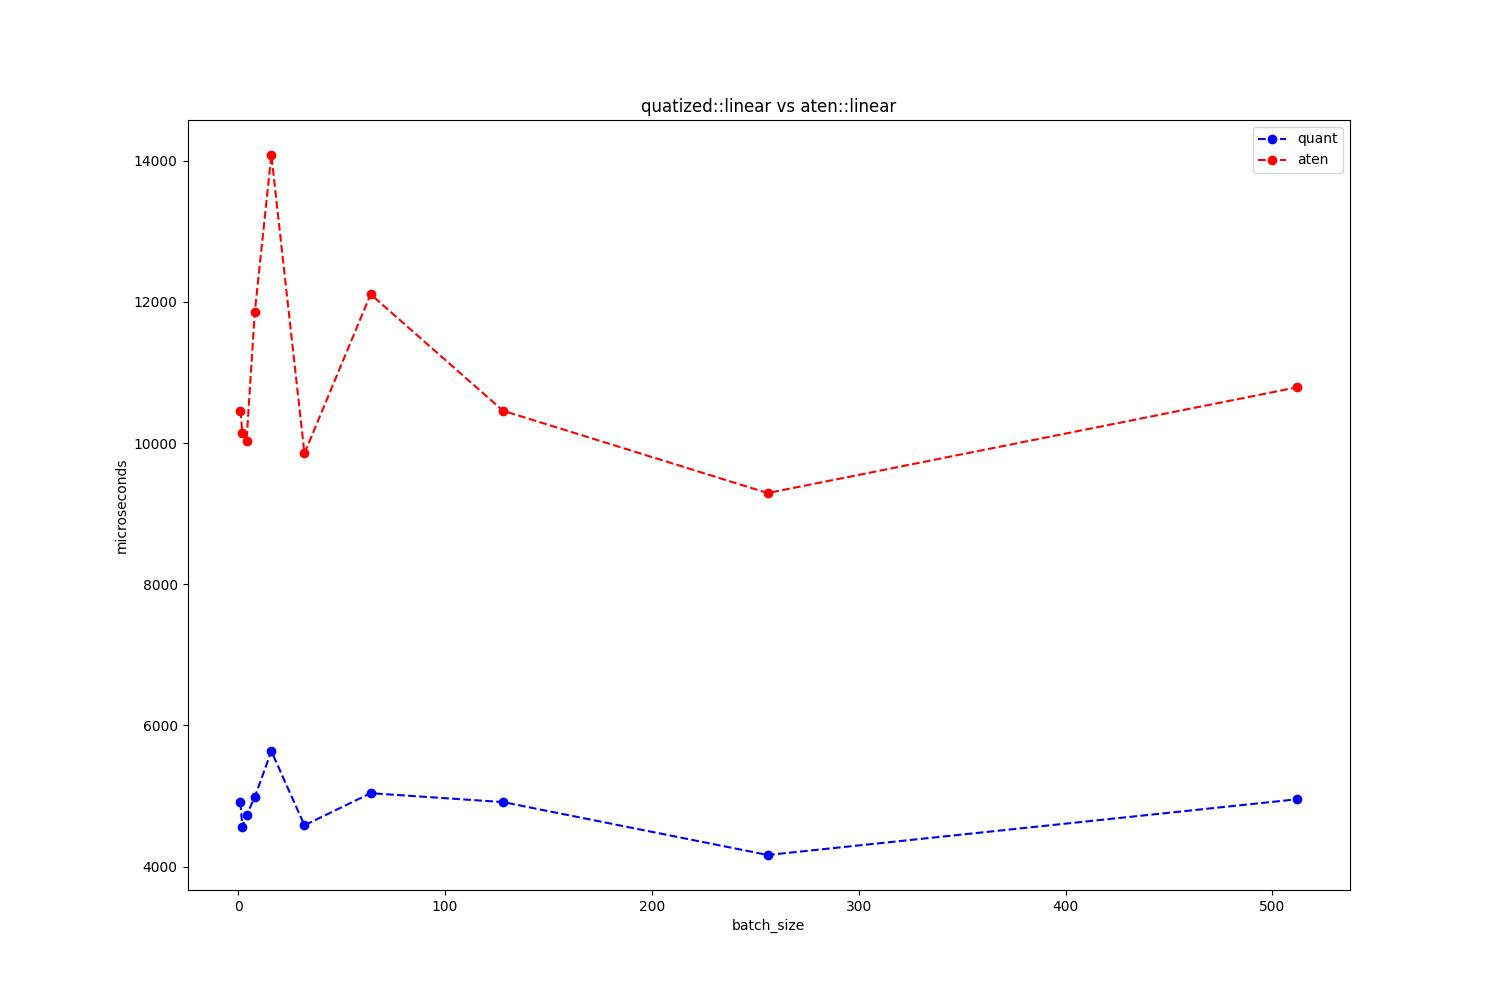
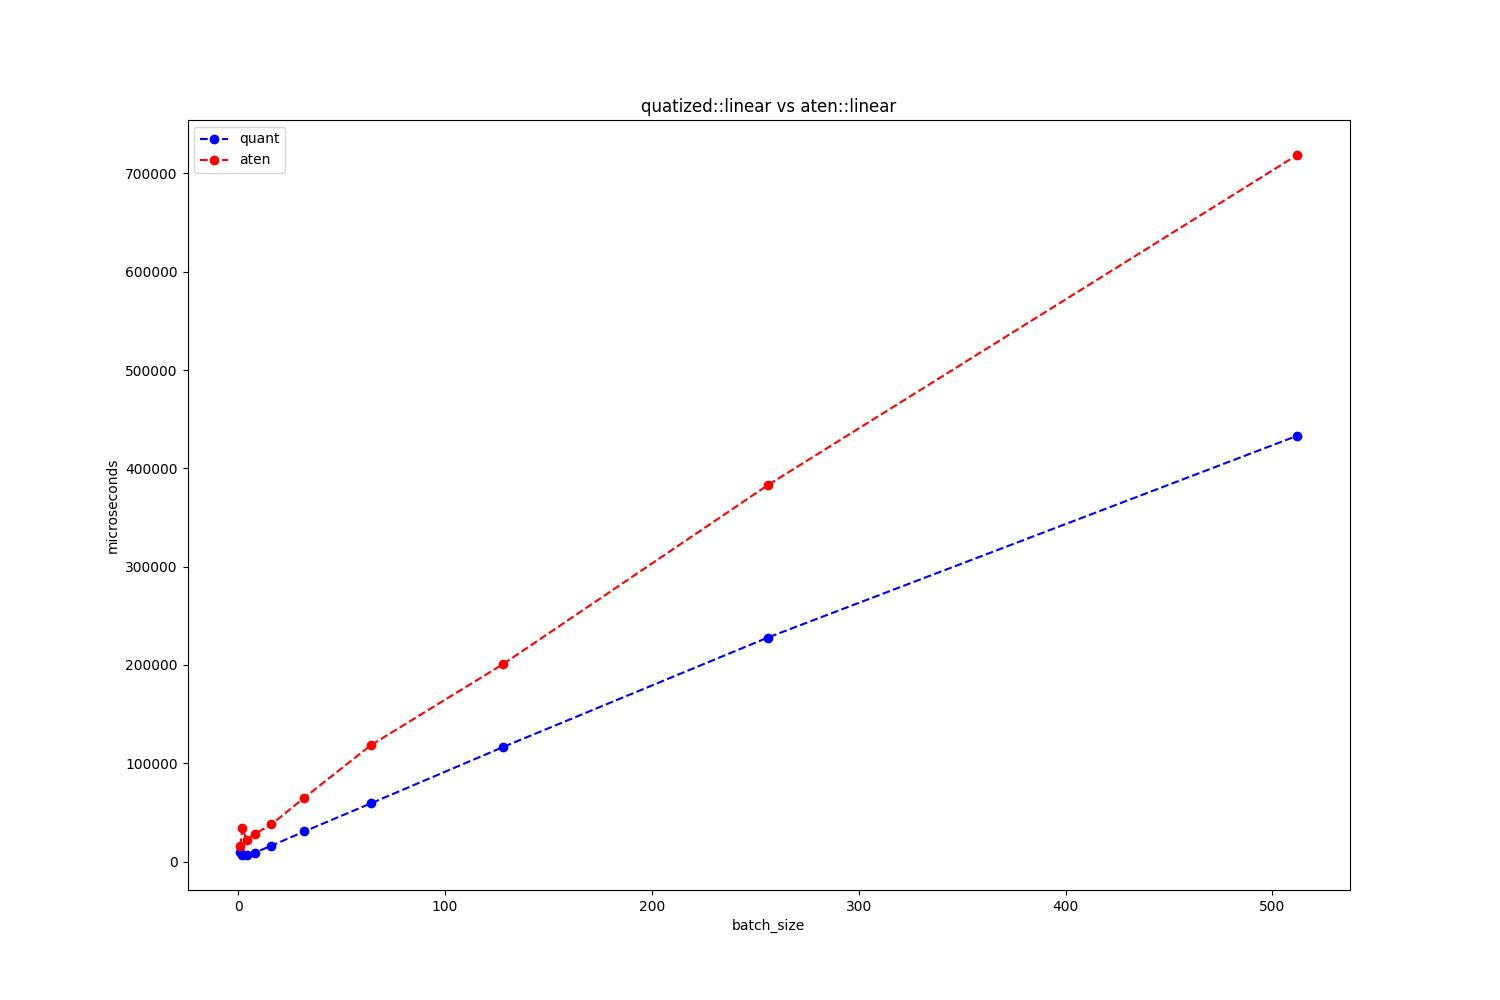
bath size benchmark update

diff --git a/benchmarks/bs_linear_bench.py b/benchmarks/bs_linear_bench.py
@@ -4,9 +4,9 @@ import os
 # https://github.com/pytorch/pytorch/issues/19001
 
 print('DEFAULT:', torch.get_num_threads(), torch.get_num_interop_threads())
-torch.set_num_threads(1), torch.set_num_interop_threads(1)
-os.environ['OMP_NUM_THREADS'] = '1'
-os.environ['MKL_NUM_THREADS'] = '1'
+# torch.set_num_threads(1), torch.set_num_interop_threads(1)
+# os.environ['OMP_NUM_THREADS'] = '1'
+# os.environ['MKL_NUM_THREADS'] = '1'
 print(torch.get_num_threads(), torch.get_num_interop_threads())
 print(torch.__config__.parallel_info())
 
@@ -174,6 +174,7 @@ with torch.inference_mode():
             elif item.key == 'aten::linear':
                 pair[1] = item.cpu_time_total
         times.append(pair)
+        batch_size *= 2
 
 quantized_time = [t[0] for t in times]
 float_time = [t[1] for t in times]
@@ -186,5 +187,5 @@ plt.legend()
 plt.title('quatized::linear vs aten::linear')
 plt.xlabel('batch_size')
 plt.ylabel('microseconds')
-plt.savefig('../bench.jpg')
+plt.savefig('../par_bs_bench.jpg')
         
